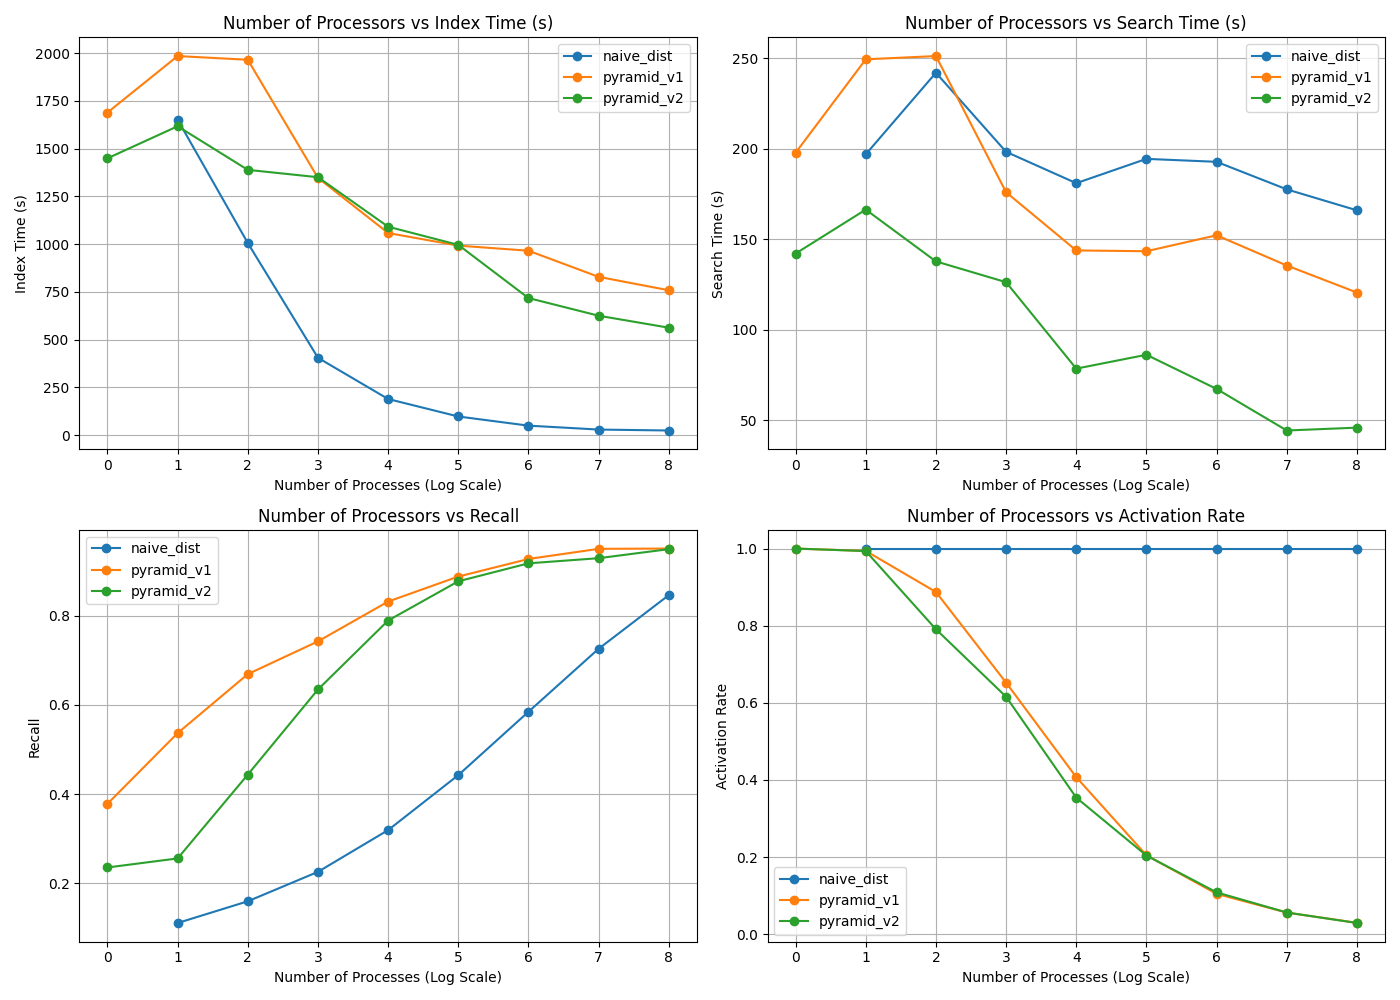
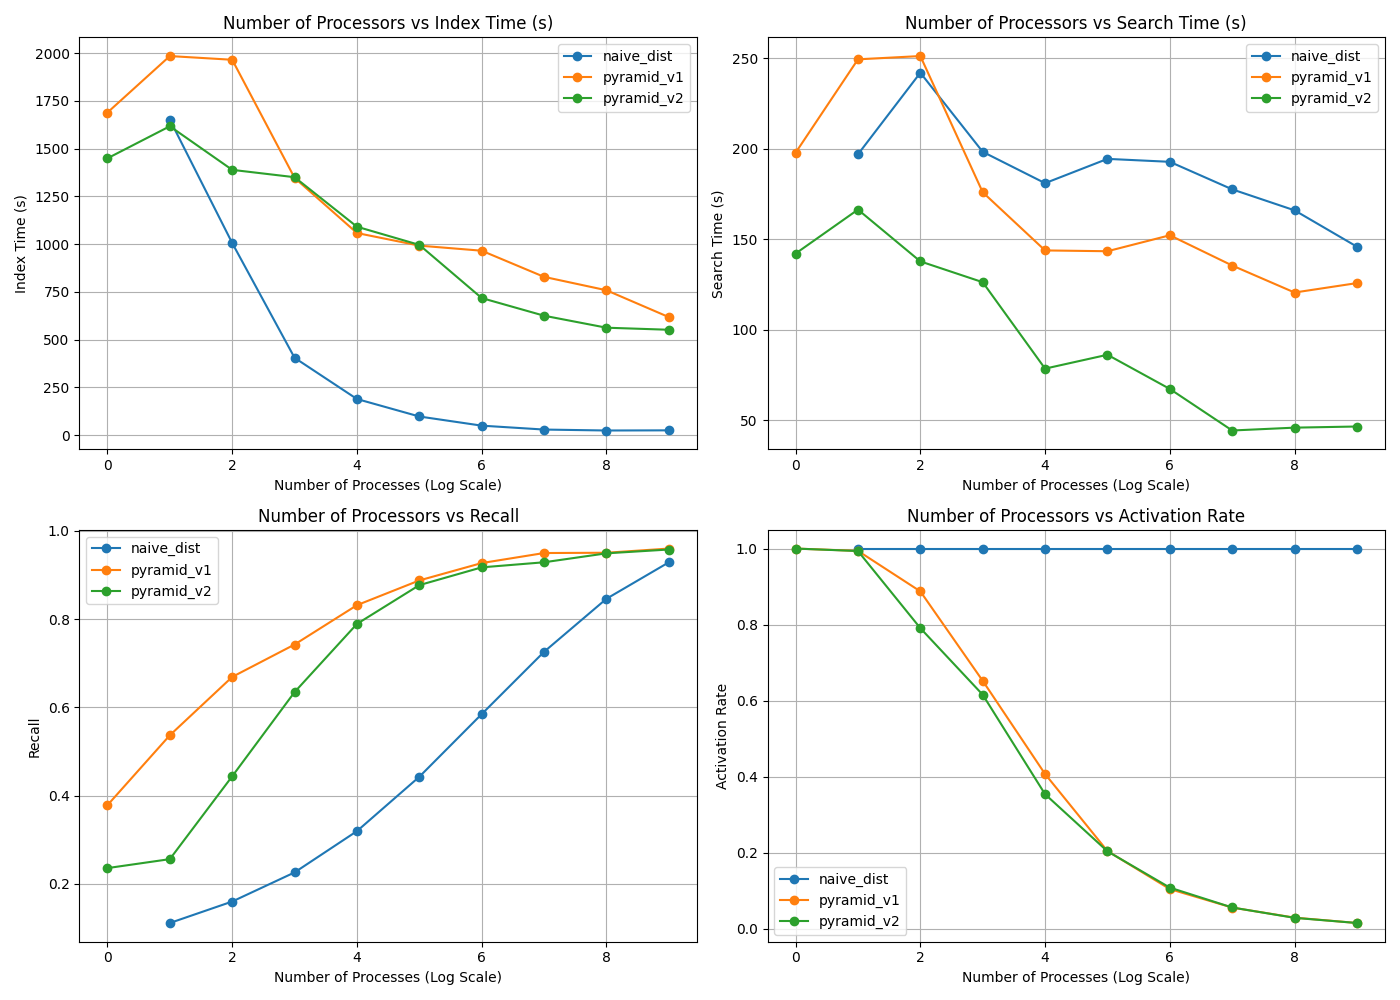
Scale upto 512 processors for weak and strong scaling.

diff --git a/hnsw/output/strong_scaling/plotter.py b/hnsw/output/strong_scaling/plotter.py
@@ -41,7 +41,7 @@ def plot_model_metrics(csv_path: str, save_path: str):
 def combine_csv_files(prefix: str, output_file: str = "strong_scaling.csv"):
     # Updated header to include model name
     header = "model,input_size,num_procs,sample_size,m,branching_factor,index_time,search_time,recall,activation_rate"
-    postfixes = [str(2**i) for i in range(9)]  # 1 to 512 doubling
+    postfixes = [str(2**i) for i in range(10)]
     variants = [("naive_dist", "naive_dist"), ("pyramid_v1", "pyramid_v1"), ("pyramid_v2", "pyramid_v2")]
 
     with open(output_file, "w") as outfile:

diff --git a/hnsw/output/weak_scaling/plotter.py b/hnsw/output/weak_scaling/plotter.py
@@ -41,7 +41,7 @@ def plot_model_metrics(csv_path: str, save_path: str):
 def combine_csv_files(prefix: str, output_file: str = "weak_scaling.csv"):
     # Updated header to include model name
     header = "model,input_size,num_procs,sample_size,m,branching_factor,index_time,search_time,recall,activation_rate"
-    postfixes = [str(2**i) for i in range(9)]  # 1 to 512 doubling
+    postfixes = [str(2**i) for i in range(10)]
     variants = [("naive_dist", "naive_dist"), ("pyramid_v1", "pyramid_v1"), ("pyramid_v2", "pyramid_v2")]
 
     with open(output_file, "w") as outfile:

diff --git a/README.md b/README.md
@@ -86,11 +86,11 @@ unzip glove.840B.300d.zip
 rm glove.840B.300d.zip
 ```
 
-### 2.Installing hnswlib
+### 2. Installing hnswlib
 ```bash
 git clone https://github.com/nmslib/hnswlib.git
 ```
-### 3.Initialization
+### 3. Initialization
 ```bash
 module load GCC OpenMPI
 
@@ -98,7 +98,7 @@ export PKG_CONFIG_PATH=$SCRATCH/apps/opencv-4.9.0/lib64/pkgconfig:$PKG_CONFIG_PA
 export LD_LIBRARY_PATH=$SCRATCH/apps/opencv-4.9.0/lib64:$LD_LIBRARY_PATH
 ```
 
-### 4.Interactive Allocation
+### 4. Interactive Allocation
 ```bash
 salloc --nodes=1 --ntasks-per-node=8 -t 00:05:00 --mem-per-cpu=5GB 
 ```
